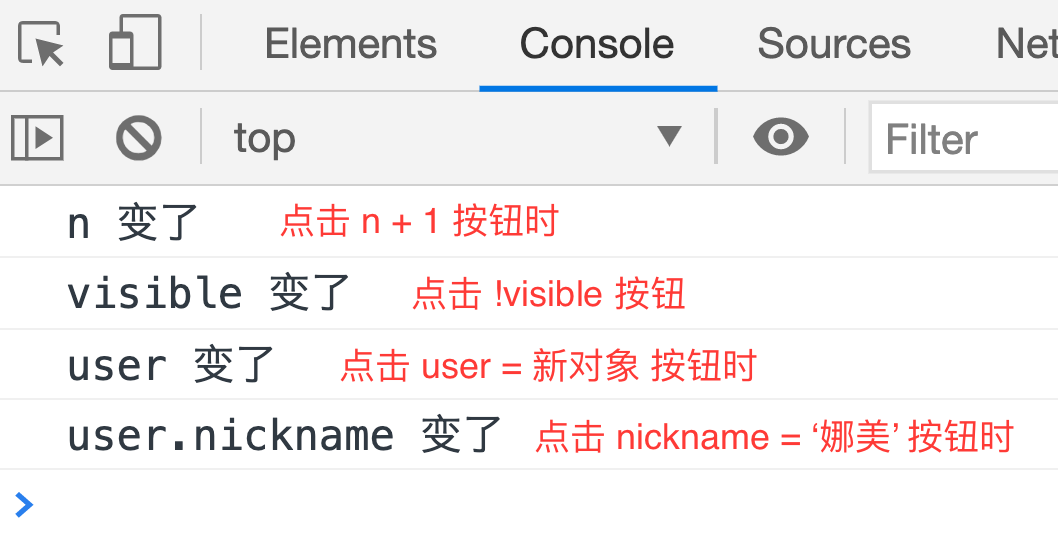
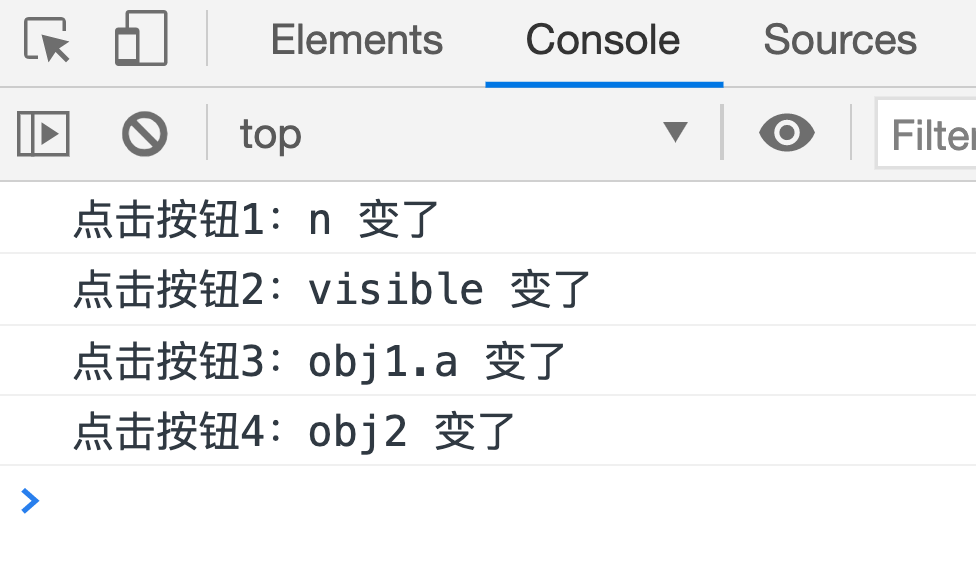
watch 更新一部分

diff --git a/Vue/computed-watch.md b/Vue/computed-watch.md
@@ -191,8 +191,8 @@ new Vue({
     }
   },
   methods: {
-    setGender (genderString) {
-      this.gender = genderString
+    setGender (gender) {
+      this.gender = gender
     }
   }
 })
@@ -289,14 +289,17 @@ new Vue({
 
 ### watch
 
-**`watch` 是侦听器，可以通过 `watch` 观察数据对象中 property 值的变化进而执行一些操作，`watch` 是一个异步的过程**。`watch` 的使用方法有以下几种：
+**`watch` 是侦听器，可以通过 `watch` 观察数据对象中 property 值的变化进而执行一些操作，`watch` 是一个异步的过程**。`watch` 的用法是一个对象，键是需要观察的表达式，值是对应的回调函数，其中值的表现形式可以是函数、方法名、包含选项的对象、包含回调的数组：
 
 ```javascript
 new Vue({
   data: {
     a: 1,
     b: 2,
-    c: 3,
+    c: {
+      c1: '111',
+      c2: '222'
+    },
     d: 4,
     e: 5,
     user: {
@@ -304,8 +307,6 @@ new Vue({
       age: 18
     }
   },
-  // 需被观察的 data 中的 property 作为 watch 的 key
-  // value 是对应的回调函数，表现形式可以是函数、方法名、包含选项的对象、包含回调的数组
   watch: {
     //第一种，值为函数
     a (newValue, oldValue) {
@@ -313,16 +314,16 @@ new Vue({
     },
     // 第二种，值为方法名
     b: 'methodName',
-    // 第三种，值为包含选项的对象，选项有：deep和immediate，回调函数是 handler
+    // 第三种，值为包含选项的对象，选项有：deep 和 immediate，回调函数是 handler
     c: {
       handler (newValue, oldValue) {},
-      // deep: true 表示被 watch 的 property 发生改变时都会调用 handler 回调，不论其被嵌套多深
-      deep: true 
+      // deep: true 表示该回调会在被监听的对象 c 的属性改变时被调用，不论属性被嵌套多深
+      deep: true
     },
     d: {
       handler: 'methodName',
       // watch 中一开始时 handler 回调并不会执行，只有在 d property 改变时才会调用回调
-      // 设置 immediate: true 则 handler 回调会在一开始就被调用
+      // 设置 immediate: true 表示 handler 回调会在一开始就被调用
       immediate: true
     },
     // 第四种，值为一个包含回调数组，它们会被逐一调用
@@ -334,60 +335,141 @@ new Vue({
         // 选项
       }
     ],
-    // key 还可以是嵌套在对象中的某个 property
+    // key 还可以是 data 中某个对象中的属性
     'user.nickname' (newValue, oldValue) {}
   }
 })
 ```
 
-值得注意的是，**不应在 `watch` 使用箭头函数**。
+值得注意的是，**不应在 `watch` 中使用箭头函数**。
 
 #### 何谓数据变化
 
-`watch` 会在观察的 property 的值发生变化时作出响应，接下来了解一下 property 值的变化：
+`watch` 会在它观察的 property 的值发生变化时作出响应，接下来了解一下 property 值的变化：
 
-```html
-<div id="app">
-  <button @click="n += 1">按钮1（n + 1）</button>
-  <button @click="visible = !visible">按钮2（!visible）</button>
-  <button @click="user = { nickname: '路飞' }">按钮3（user = 新对象）</button>
-  <button @click="user.nickname = '娜美'">按钮4（nickname = '娜美'）</button>
-</div>
+```vue
+<template>
+  <div>
+    <button @click="n += 2">按钮1</button>
+    <button @click="visible = !visible">按钮2</button>
+    <button @click="obj1.a += 'ggg'">按钮3</button>
+    <button @click="obj2 = { b: 'bbb' }">按钮4</button>
+  </div>
+</template>
+
 <script>
-new Vue({
-  el: '#app',
-  data: {
-    n: 1,
-    visible: false,
-    user: {
-      nickname: '路飞'
+export default {
+  data () {
+    return {
+      n: 1,
+      visible: false,
+      obj1: {
+        a: 'aaa'
+      },
+      obj2: {
+        b: 'bbb'
+      }
     }
   },
   watch: {
     n () {
-      console.log('n 变了')
+      console.log('点击按钮1：n 变了')
     },
     visible () {
-      console.log('visible 变了')
+      console.log('点击按钮2：visible 变了')
     },
-    user () {
-      console.log('user 变了')
+    obj1 () {
+      console.log('点击按钮3：obj1 变了')
     },
-    'user.nickname' () {
-      console.log('user.nickname 变了')
+    'obj1.a' () {
+      console.log('点击按钮3：obj1.a 变了')
+    },
+    obj2 () {
+      console.log('点击按钮4：obj2 变了')
+    },
+    'obj2.b' () {
+      console.log('点击按钮4：obj2.b 变了f')
     }
   }
-})
+}
 </script>
 ```
 
-点击上面代码中不同按钮时会修改数据对象中某些 property 的值，而 `watch` 会在监听到这些 property 值的变化时在控制台打印出以下内容：
+点击按钮时会修改数据对象中某些 property 的值，而 `watch` 会在监听到这些 property 值的变化时在控制台打印出相应内容：
 
-![watch-1](./imgs/watch-1.png)
+![watch-数据变化](./imgs/watch-1.png)
 
-嘻嘻嘻
+对于像 `n`、`visible` 、`obj1.a` 这种属于基本类型的 property，只要它们的值改变，就会被 `watch` 监听。
 
-对于像 `n`、`visible` 这种属于基本类型的 property，只要它们的值改变，就会被 `watch` 监听。
+对于对象这种属于复杂类型的 property，只有当其引用值的地址发生改变才会被 `watch` 监听。点击按钮3执行 `obj1.a += 'ggg'` 时，只有 `obj1.a` 这个基本类型的值变化了，但 `obj1` 的引用值的地址并未改变，所以未被 `watch` 监听。点击按钮4执行 `obj2 = { b: 'bbb' }` 时，尽管 `obj2` 由赋值得到的新对象的键值对和之前一样，但 `obj2` 引用值的地址发生了改变，所以 `obj2` 会被 `watch` 监听。
 
-对于 `user` 这种属于复杂类型的 property，只有当其引用值的地址发生改变才会被 `watch` 监听。所以点击第三个按钮执行 `user = { nickname: '路飞' }` 时，`user` 引用值的地址发生了改变，
+如果要想在 `obj1.a` 发生改变时也让 `watch` 认为 `obj1` 也改变了，可以使用 `deep: true`：
+
+```vue
+//...
+<script>
+export default {
+	// ...
+  watch: {
+    obj1: {
+      handler () {
+        console.log('点击按钮3：obj1 变了')
+      },
+      deep: true
+    }
+  }
+}
+</script>
+```
+
+点击按钮3时，控制台打印结果如下：
+
+![watch-deep-true](./imgs/watch-2.png)
+
+#### watch 是异步的
+
+页面中有一个展示当前值和操作历史的模块，如下图：
+
+![watch-异步](./imgs/watch-3.png)
+
+当点击不同的操作按钮时，当前值和操作记录都会作相应的改变，代码如下：
+
+```vue
+<template>
+  <div class="about">
+    <p>当前值：{{ n }}</p>
+    <div>
+      <button @click="n += 2">+2</button>
+      <button @click="n += 5">+5</button>
+      <button @click="n -= 3">-3</button>
+      <button @click="n -= 1">-1</button>
+      <button :disabled="history.length === 0" @click="revoke">撤销</button>
+    </div>
+    <p>操作记录：{{ history }}</p>
+  </div>
+</template>
+
+<script>
+export default {
+  data () {
+    return {
+      n: 0,
+      history: [],
+      inRevokeMode: false
+    }
+  },
+  watch: {
+    n (newValue, oldValue) {
+      this.history.push({ from: oldValue, to: newValue })
+    }
+  },
+  methods: {
+    revoke () {
+      const lastItem = this.history.pop()
+      this.n = lastItem.from
+    }
+  }
+}
+</script>
+```
 
